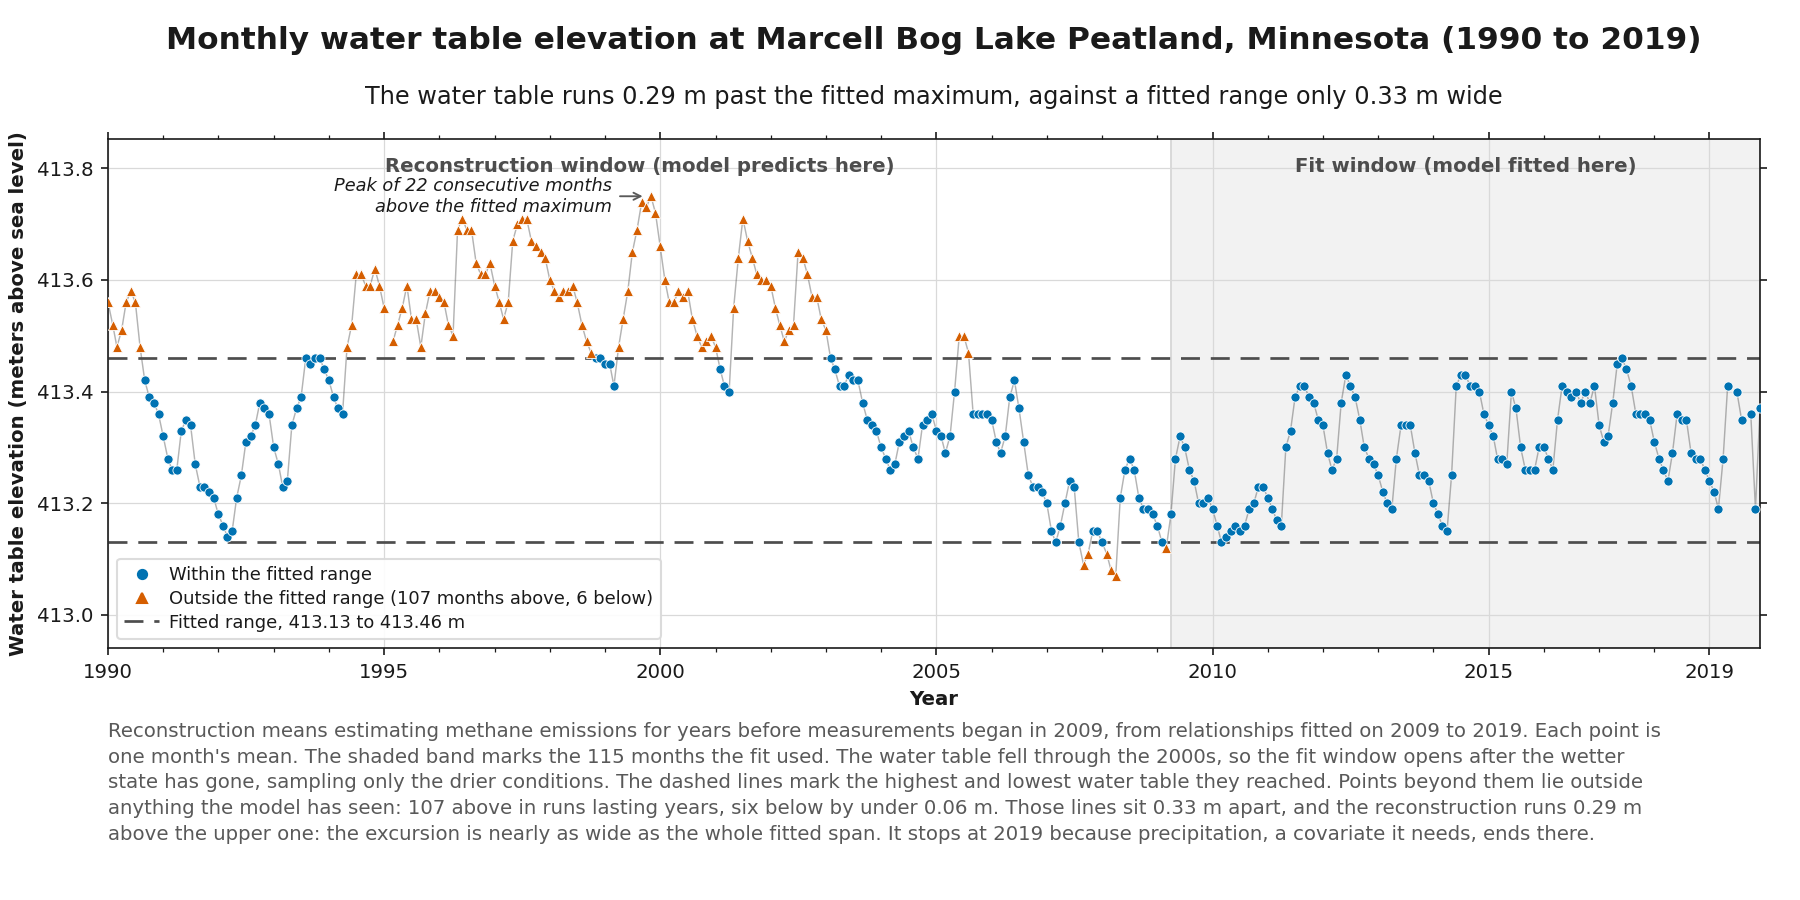
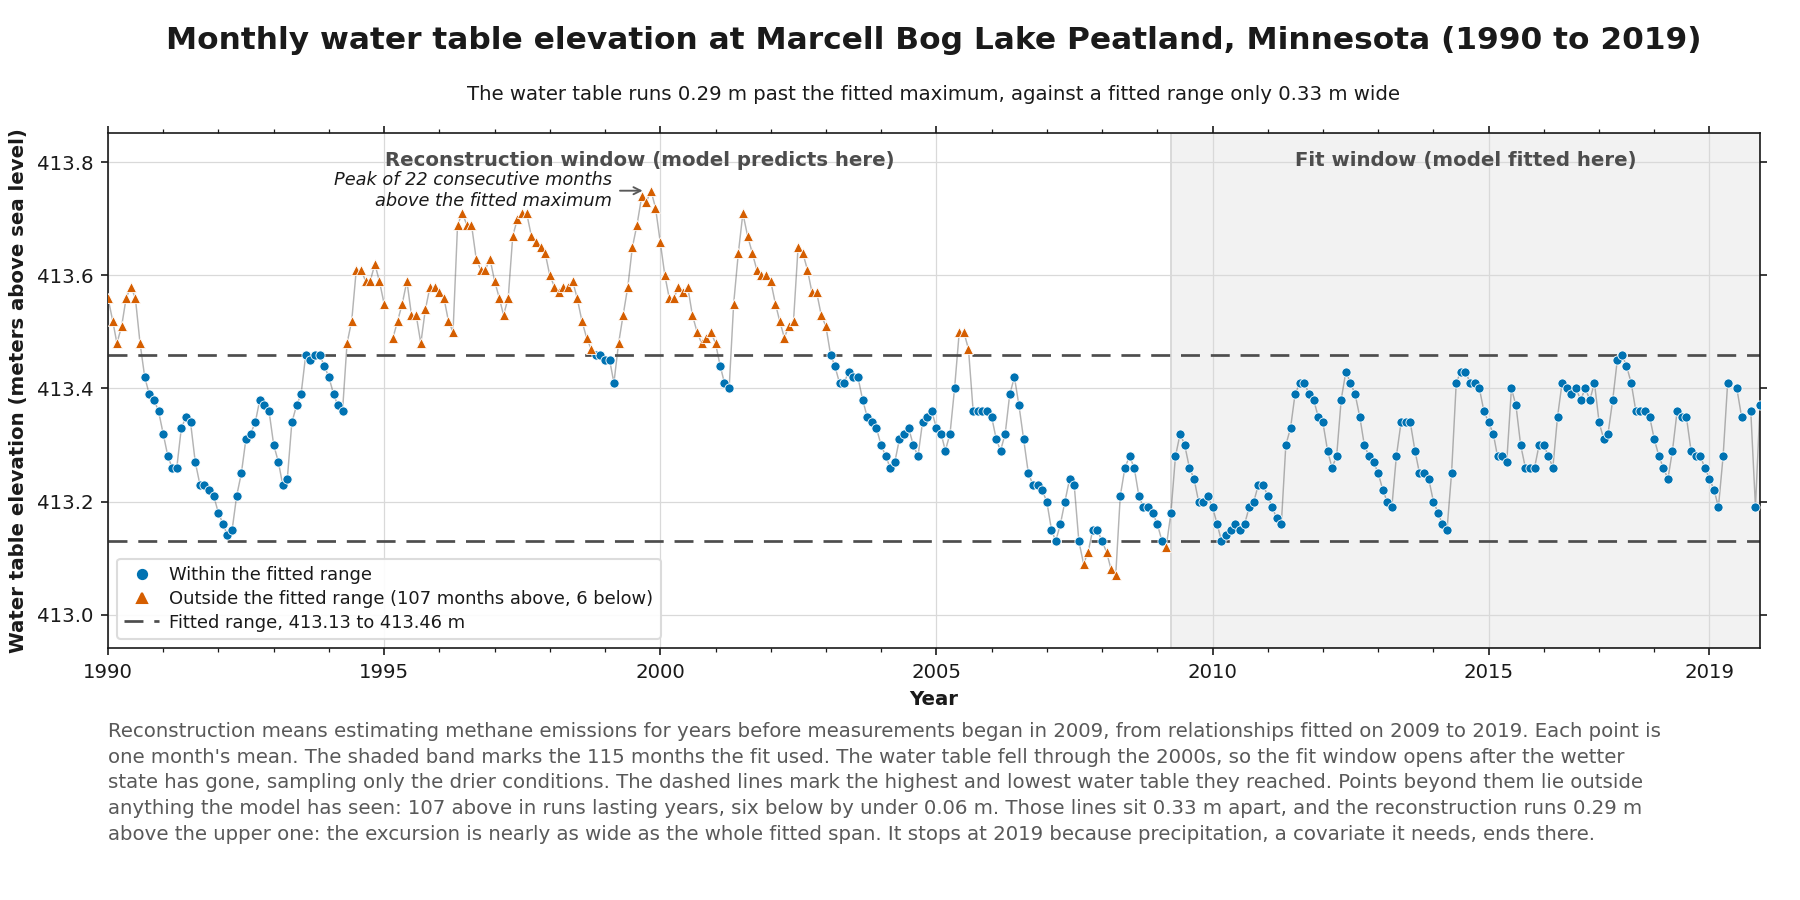
Set the subtitle at the description size

diff --git a/tests/test_forecast_figure.py b/tests/test_forecast_figure.py
@@ -113,7 +113,7 @@ def test_persistence_is_scored_but_not_drawn():
     tables = {k: panel() for k, _, _ in figures.GAS_PANEL}
     assert "naive" in tables["methane"], "it is still scored"
     assert "naive" not in figures.BENCHMARK_STYLE, "and no longer drawn"
-    fig = figures.forecast_comparison(tables)
+    fig = figures.forecast_error_by_horizon(tables)
     for ax in fig.axes:
         assert len([line for line in ax.lines if line.get_linestyle() != "None"]) == 4
     ps.plt.close(fig)
@@ -121,7 +121,7 @@ def test_persistence_is_scored_but_not_drawn():
 
 def test_both_scales_are_linear():
     """A logarithmic scale made the carbon dioxide comparison unreadable."""
-    fig = figures.forecast_comparison({k: panel() for k, _, _ in figures.GAS_PANEL})
+    fig = figures.forecast_error_by_horizon({k: panel() for k, _, _ in figures.GAS_PANEL})
     for ax in fig.axes:
         assert ax.get_yscale() == "linear"
     ps.plt.close(fig)
@@ -130,7 +130,7 @@ def test_both_scales_are_linear():
 def test_each_panel_spans_what_its_series_occupy():
     """The axis is set from the data, not padded out to a shared round number."""
     tables = {k: panel() for k, _, _ in figures.GAS_PANEL}
-    fig = figures.forecast_comparison(tables)
+    fig = figures.forecast_error_by_horizon(tables)
     for ax, key in zip(fig.axes, [k for k, _, _ in figures.GAS_PANEL]):
         table = tables[key]
         low, high = ax.get_ylim()
@@ -146,14 +146,14 @@ def test_the_two_panels_do_not_share_a_scale():
     tables = {k: panel() for k, _, _ in figures.GAS_PANEL}
     tables["carbon_dioxide"] = tables["carbon_dioxide"] * 0.01
     tables["carbon_dioxide"]["horizon"] = list(HORIZONS)
-    fig = figures.forecast_comparison(tables)
+    fig = figures.forecast_error_by_horizon(tables)
     assert fig.axes[0].get_ylim() != fig.axes[1].get_ylim()
     ps.plt.close(fig)
 
 
 def test_no_legend_covers_any_series():
     """Measured against the drawn data, not judged by eye, which missed it twice."""
-    fig = figures.forecast_comparison({k: panel() for k, _, _ in figures.GAS_PANEL})
+    fig = figures.forecast_error_by_horizon({k: panel() for k, _, _ in figures.GAS_PANEL})
     fig.canvas.draw()
     for ax in fig.axes:
         box = ax.get_legend().get_window_extent().transformed(ax.transData.inverted())
@@ -166,7 +166,7 @@ def test_no_legend_covers_any_series():
 
 
 def test_the_legend_is_two_columns_with_a_heading_over_each_group():
-    fig = figures.forecast_comparison({k: panel() for k, _, _ in figures.GAS_PANEL})
+    fig = figures.forecast_error_by_horizon({k: panel() for k, _, _ in figures.GAS_PANEL})
     for ax in fig.axes:
         legend = ax.get_legend()
         assert legend._ncols == 2
@@ -179,7 +179,7 @@ def test_the_legend_is_two_columns_with_a_heading_over_each_group():
 
 def test_every_panel_carries_the_whole_key():
     """Split across panels, each would have been half a key."""
-    fig = figures.forecast_comparison({k: panel() for k, _, _ in figures.GAS_PANEL})
+    fig = figures.forecast_error_by_horizon({k: panel() for k, _, _ in figures.GAS_PANEL})
     for ax in fig.axes:
         legend = ax.get_legend()
         assert legend is not None
@@ -201,7 +201,7 @@ def test_the_benchmarks_are_named_by_what_they_do():
 
 def test_the_horizons_are_evenly_spaced_and_no_tick_is_invented():
     """At true positions the step from six to twelve is twice the step before it."""
-    fig = figures.forecast_comparison({k: panel() for k, _, _ in figures.GAS_PANEL})
+    fig = figures.forecast_error_by_horizon({k: panel() for k, _, _ in figures.GAS_PANEL})
     for ax in fig.axes:
         ticks = ax.get_xticks()
         assert list(np.diff(ticks)) == [1.0] * (len(ticks) - 1)
@@ -217,7 +217,7 @@ def test_nothing_drawn_over_a_panel_covers_a_series():
     failed last.
     """
     tables = {key: real_panel(key) for key, _, _ in figures.GAS_PANEL}
-    fig = figures.forecast_comparison(tables)
+    fig = figures.forecast_error_by_horizon(tables)
     fig.canvas.draw()
     for ax in fig.axes:
         furniture = [("legend", ax.get_legend())]
@@ -234,7 +234,7 @@ def test_nothing_drawn_over_a_panel_covers_a_series():
 
 
 def test_the_furniture_does_not_overlap_itself():
-    fig = figures.forecast_comparison({k: real_panel(k) for k, _, _ in figures.GAS_PANEL})
+    fig = figures.forecast_error_by_horizon({k: real_panel(k) for k, _, _ in figures.GAS_PANEL})
     fig.canvas.draw()
     for ax in fig.axes:
         boxes = [ax.get_legend().get_window_extent()]
@@ -249,7 +249,7 @@ def test_the_furniture_does_not_overlap_itself():
 
 def test_the_panel_name_is_larger_than_a_legend_entry():
     """It is the primary distinction between the panels."""
-    fig = figures.forecast_comparison({k: panel() for k, _, _ in figures.GAS_PANEL})
+    fig = figures.forecast_error_by_horizon({k: panel() for k, _, _ in figures.GAS_PANEL})
     for ax in fig.axes:
         name = next(a for a in ax.texts if "Methane" in a.get_text()
                     or "Carbon dioxide" in a.get_text())
@@ -272,7 +272,7 @@ def test_the_units_caveat_names_the_units():
 
 def test_the_annotation_target_sits_low_enough_to_show_its_arrow():
     tables = {key: real_panel(key) for key, _, _ in figures.GAS_PANEL}
-    fig = figures.forecast_comparison(tables)
+    fig = figures.forecast_error_by_horizon(tables)
     fig.canvas.draw()
     for ax in fig.axes:
         note = next(a for a in ax.texts if "above the band" in a.get_text())
@@ -286,7 +286,7 @@ def test_the_annotation_target_sits_low_enough_to_show_its_arrow():
 
 def test_the_legend_keeps_its_clearance_on_both_panels():
     tables = {key: real_panel(key) for key, _, _ in figures.GAS_PANEL}
-    fig = figures.forecast_comparison(tables)
+    fig = figures.forecast_error_by_horizon(tables)
     fig.canvas.draw()
     for ax in fig.axes:
         legend = ax.get_legend().get_window_extent()

diff --git a/scripts/make_figures.py b/scripts/make_figures.py
@@ -99,9 +99,9 @@ def main() -> None:
             frames[family] = frame
         panels[key] = figures.forecast_panel(frames, evaluation.HORIZONS)
 
-    fig = figures.forecast_comparison(panels)
-    path = plotstyle.save(fig, "forecast_comparison")
-    fragments.append(plotstyle.readme_block(figures.FORECAST_TEXT, "forecast_comparison"))
+    fig = figures.forecast_error_by_horizon(panels)
+    path = plotstyle.save(fig, "forecast_error_by_horizon")
+    fragments.append(plotstyle.readme_block(figures.FORECAST_TEXT, "forecast_error_by_horizon"))
     print(f"wrote {path.relative_to(plotstyle.figures_dir().parent)}")
 
     target = plotstyle.figures_dir() / "README_fragments.md"

diff --git a/src/study/plotstyle.py b/src/study/plotstyle.py
@@ -132,7 +132,10 @@ XAXIS_BLOCK_PX = 74
 MARGIN_PX = {"left": 108, "right": 40, "top": 26, "bottom": 22}
 
 TITLE_SIZE = 15
-SUBTITLE_SIZE = 11.5
+#: Set to the description size. The subtitle carries the finding and is read
+#: first, but it is near-black against the description's muted gray, and that
+#: difference carries the hierarchy without a difference in size as well.
+SUBTITLE_SIZE = 9.5
 DESCRIPTION_SIZE = 9.5
 LABEL_SIZE = 9.5
 TICK_SIZE = 9.5

diff --git a/src/study/figures.py b/src/study/figures.py
@@ -427,7 +427,7 @@ def _draw_forecast_panel(ax, panel: pd.DataFrame, unit: str, labeled: bool = Tru
     ps.mirror_ticks(ax)
 
 
-def forecast_comparison(panels: dict[str, pd.DataFrame]) -> Figure:
+def forecast_error_by_horizon(panels: dict[str, pd.DataFrame]) -> Figure:
     """The forecast result: the seasonal average against everything fitted to beat it.
 
     Two panels rather than one axis, in each gas's own units, because the scaled

diff --git a/notes/study.md b/notes/study.md
@@ -1479,7 +1479,8 @@ candidates survived.
 
 ### The figure, and the palette measurement behind it
 
-`figures/forecast_comparison.png`, built by `study.figures.forecast_comparison`
+`figures/forecast_error_by_horizon.png`, built by
+`study.figures.forecast_error_by_horizon`
 from the scored forecasts rather than by refitting.
 
 The subtitle carries the method definitions, the benchmark count and what the band
@@ -1596,6 +1597,13 @@ the furniture off the data would otherwise count them as series.
 close to the average to tell apart" described the methods that fall in the band
 rather than the region itself, which is why it read oddly as a key entry. It now
 reads "Margin needed to differ from the average", which is what the region is.
+
+**The subtitle is set at the description's size.** It carries the finding and is
+read first, but it is near-black against the description's muted gray, and that
+difference carries the hierarchy without a difference in size as well. Set on the
+shared constant, so the whole figure set matches; two intermediate sizes were
+rendered and compared before choosing. On this figure the subtitle rewraps from
+five lines to four and the panels gain the room.
 
 **The description names the units rather than saying they differ.** "The two
 panels are in different units" leaves a reader to work out which and why it

diff --git a/figures/README_fragments.md b/figures/README_fragments.md
@@ -24,7 +24,7 @@ Each marker is one year's emission in grams of carbon per square meter, from rel
 
 ### Monthly methane and carbon dioxide forecast error at Marcell Bog Lake Peatland
 
-![Monthly methane and carbon dioxide forecast error at Marcell Bog Lake Peatland](figures/forecast_comparison.png)
+![Monthly methane and carbon dioxide forecast error at Marcell Bog Lake Peatland](figures/forecast_error_by_horizon.png)
 
 **Four fitted methods (ordinary least squares, ridge regression, random forest and gradient boosting), each run with and without lagged environmental covariates, are compared against four simple benchmarks. Each is evaluated at forecast horizons of one to twelve months, meaning how far ahead the prediction is made. The most accurate at every horizon on both gases is the simplest: predicting each month as the average of that month in previous years. The pale band marks how far below that average a method would have to fall before the difference could be told apart from noise.**
 
